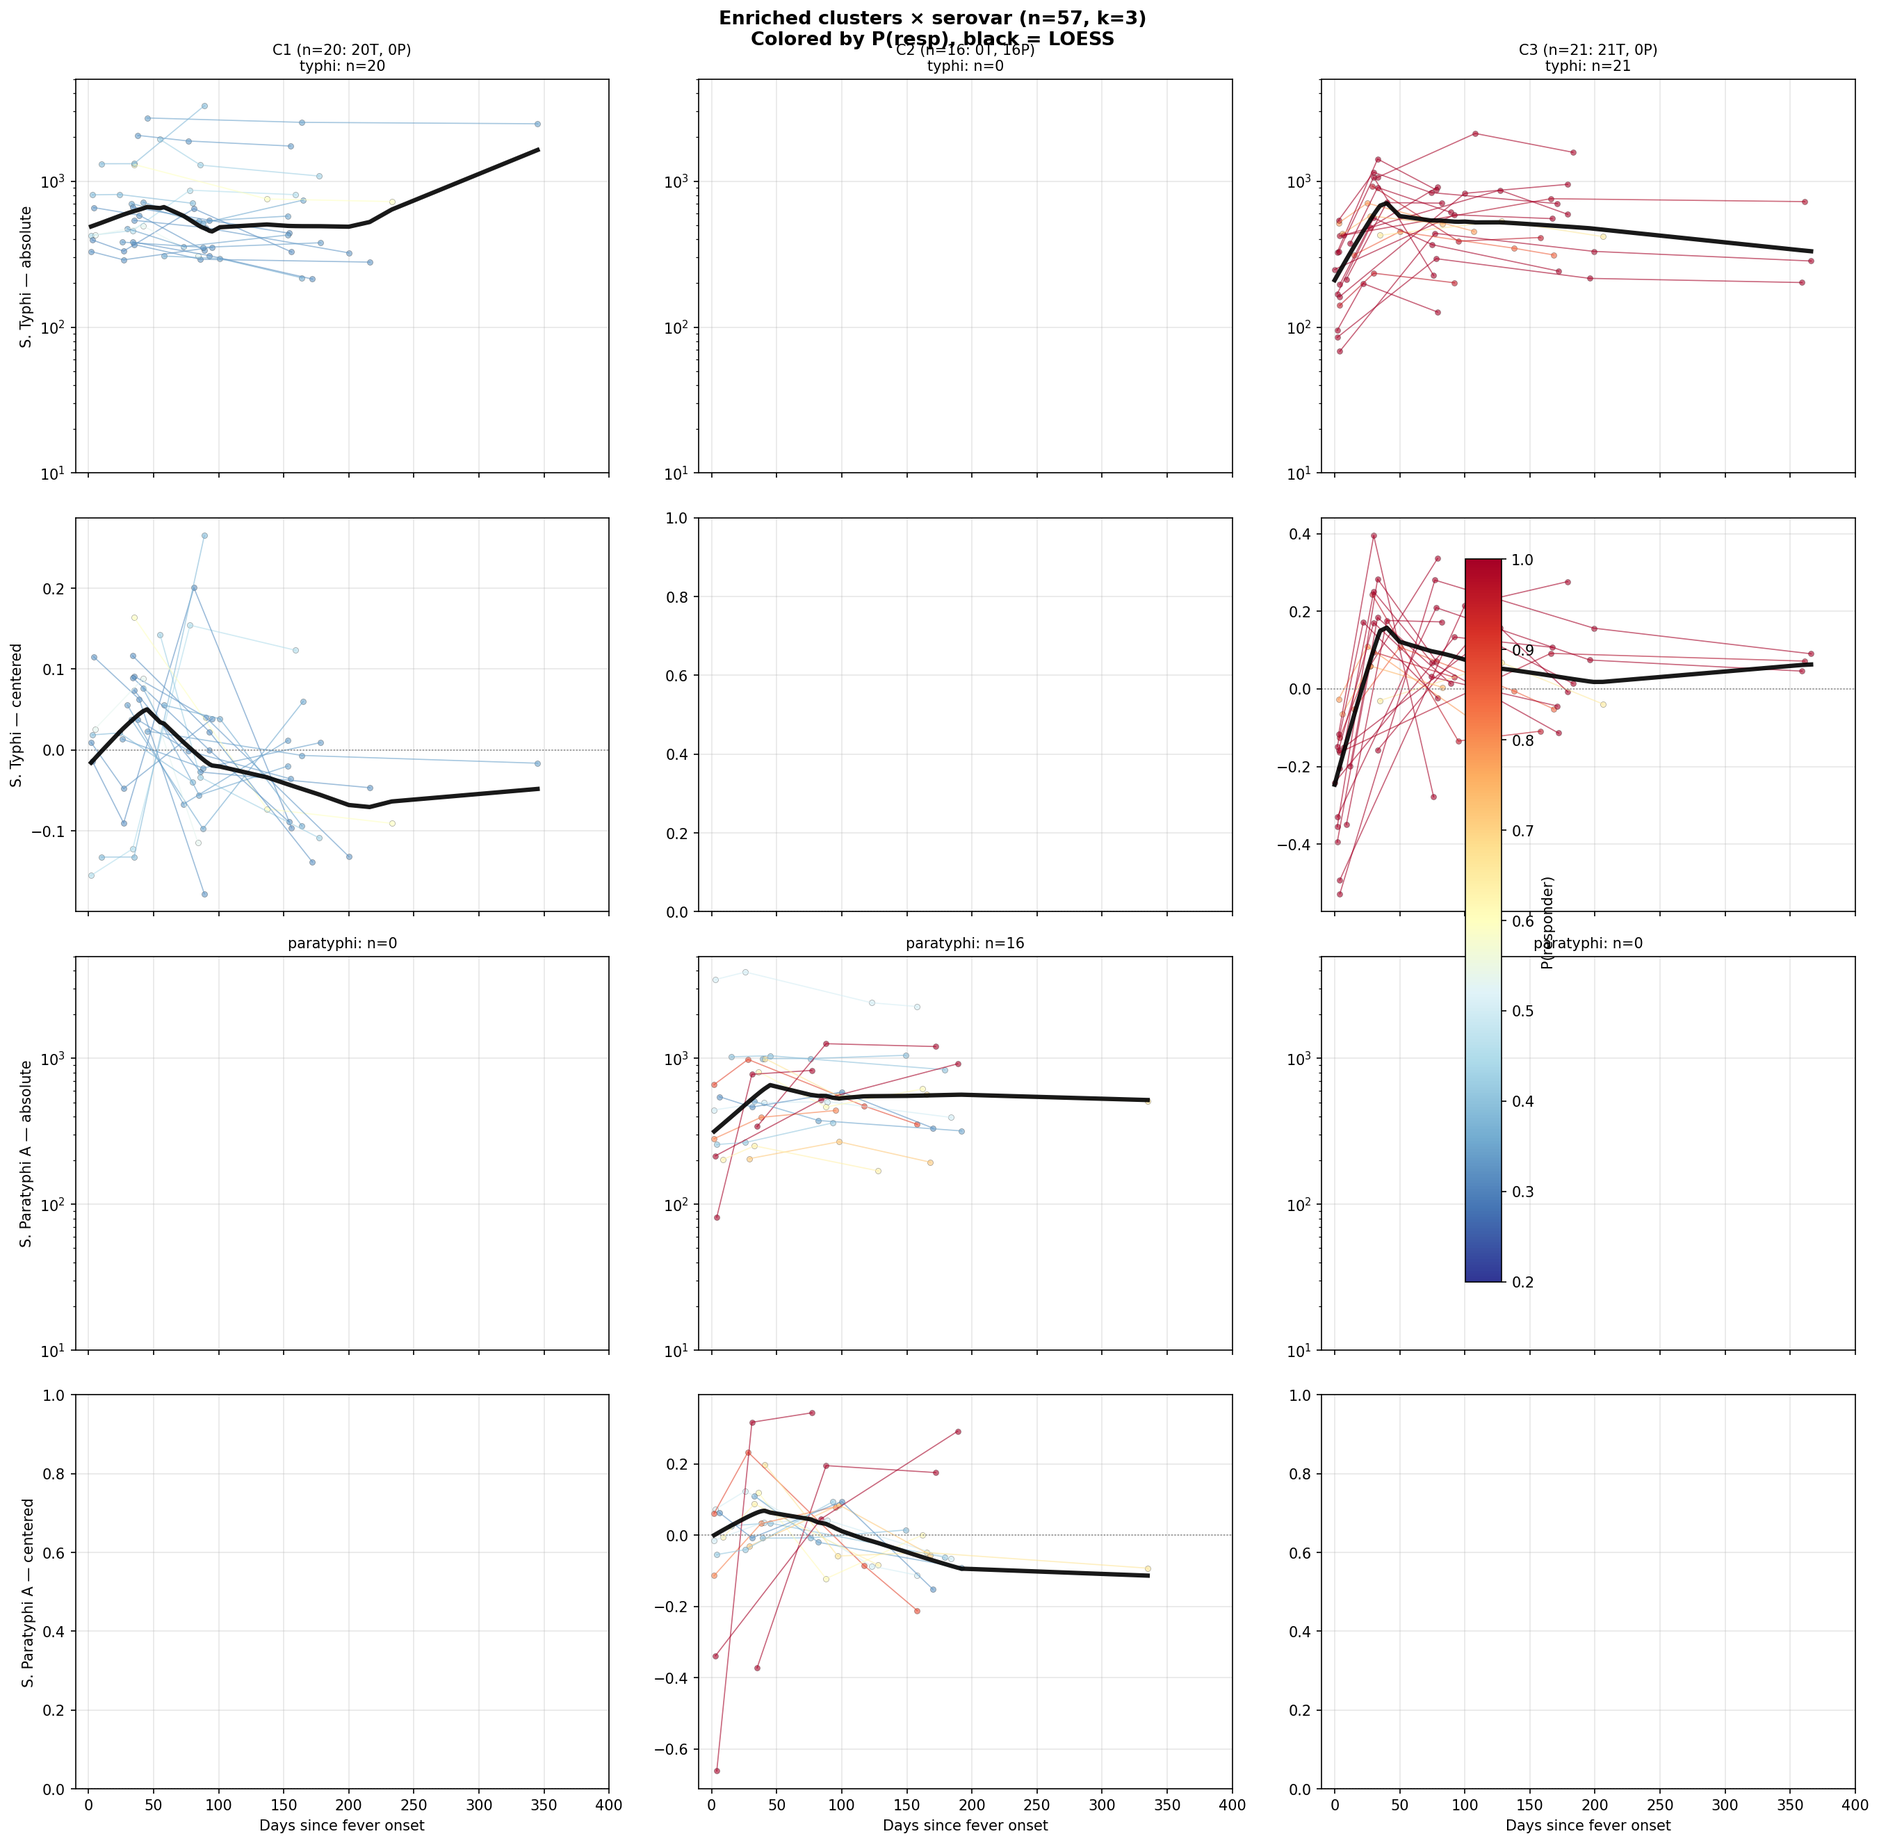
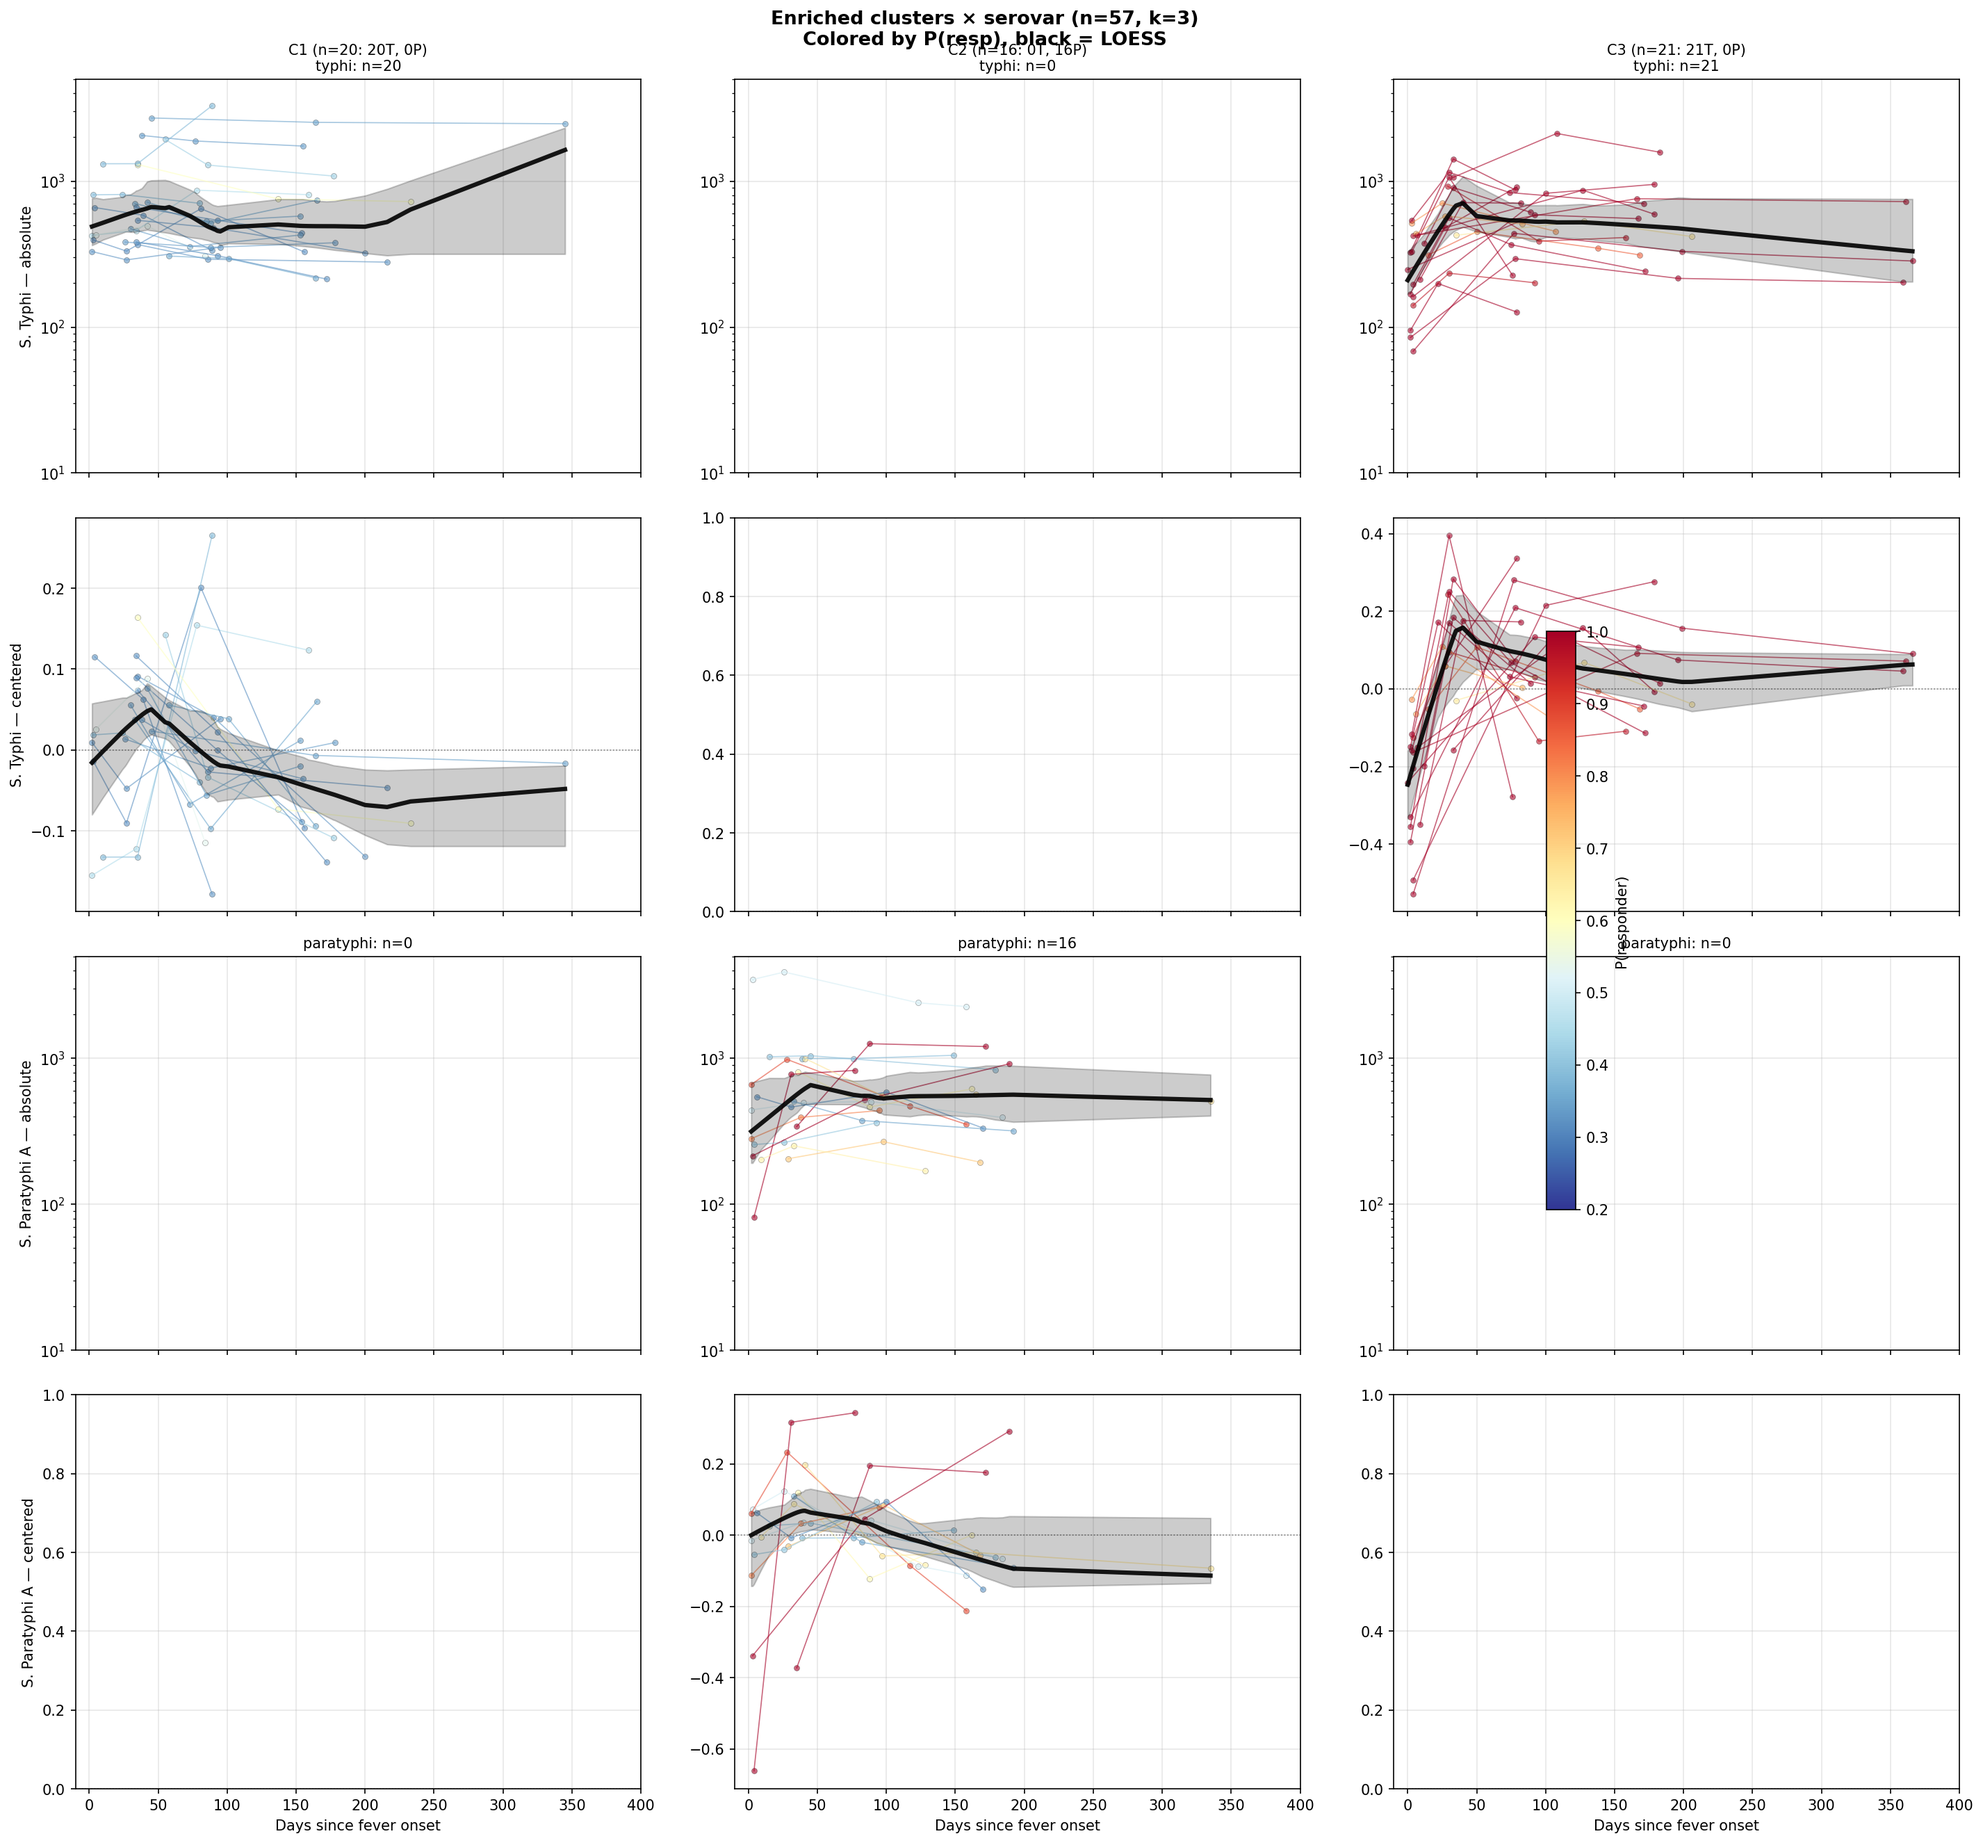
Add bootstrap 95% CI ribbons to LOESS, fix colorbar placement
Bootstrap CI by resampling subjects (200 iterations) to respect within-
subject correlation. Ribbons show uncertainty in the cluster-level
trend. Colorbar moved to far right with more padding.

diff --git a/metastudies/waning_after_infection/Aiemjoy2022_reanalysis/reanalysis/mixture_eda/12_enriched_clustering.py b/metastudies/waning_after_infection/Aiemjoy2022_reanalysis/reanalysis/mixture_eda/12_enriched_clustering.py
@@ -255,7 +255,7 @@ def main():
         ("S. Paratyphi A — centered", "paratyphi", "centered"),
     ]
 
-    fig, axes = plt.subplots(4, k_primary, figsize=(6 * k_primary, 18), sharex=True)
+    fig, axes = plt.subplots(4, k_primary, figsize=(6 * k_primary + 1, 18), sharex=True)
 
     for col, c in enumerate(range(1, k_primary + 1)):
         c_sids = [s for s in sids if cluster_map[s] == c]
@@ -284,13 +284,44 @@ def main():
                 ax.scatter(t, y_plot, color=color, s=15, alpha=0.6,
                            edgecolors="black", linewidths=0.2)
 
-            if len(all_t) >= 6:
-                smooth = sm_lowess(np.array(all_y), np.array(all_t),
-                                   frac=0.6, return_sorted=True)
-                if mode == "absolute":
-                    ax.plot(smooth[:, 0], 10**smooth[:, 1], "k-", lw=3, alpha=0.9, zorder=10)
+            all_t_arr = np.array(all_t)
+            all_y_arr = np.array(all_y)
+            if len(all_t_arr) >= 6 and len(sv_sids) >= 3:
+                smooth = sm_lowess(all_y_arr, all_t_arr, frac=0.6, return_sorted=True)
+
+                # Bootstrap CI by resampling subjects
+                t_eval = smooth[:, 0]
+                rng = np.random.RandomState(42 + col * 10 + row_idx)
+                boot_curves = []
+                for _ in range(200):
+                    boot_sids = rng.choice(sv_sids, size=len(sv_sids), replace=True)
+                    bt, by = [], []
+                    for bsid in boot_sids:
+                        bgrp = longi[longi["index_id"] == bsid].sort_values("days_since_fever_onset")
+                        bt_vals = bgrp["days_since_fever_onset"].values
+                        by_log = np.log10(np.maximum(bgrp["vi_igg_eu"].values, 1))
+                        if mode == "centered":
+                            by_log = by_log - feature_rows[bsid]["subj_mean_log10"]
+                        bt.extend(bt_vals); by.extend(by_log)
+                    if len(bt) >= 6:
+                        bs = sm_lowess(np.array(by), np.array(bt), frac=0.6, return_sorted=True)
+                        boot_interp = np.interp(t_eval, bs[:, 0], bs[:, 1])
+                        boot_curves.append(boot_interp)
+                if len(boot_curves) >= 10:
+                    boot_arr = np.array(boot_curves)
+                    lo = np.percentile(boot_arr, 2.5, axis=0)
+                    hi = np.percentile(boot_arr, 97.5, axis=0)
+                    if mode == "absolute":
+                        ax.fill_between(t_eval, 10**lo, 10**hi, color="black", alpha=0.2, zorder=9)
+                        ax.plot(smooth[:, 0], 10**smooth[:, 1], "k-", lw=3, alpha=0.9, zorder=10)
+                    else:
+                        ax.fill_between(t_eval, lo, hi, color="black", alpha=0.2, zorder=9)
+                        ax.plot(smooth[:, 0], smooth[:, 1], "k-", lw=3, alpha=0.9, zorder=10)
                 else:
-                    ax.plot(smooth[:, 0], smooth[:, 1], "k-", lw=3, alpha=0.9, zorder=10)
+                    if mode == "absolute":
+                        ax.plot(smooth[:, 0], 10**smooth[:, 1], "k-", lw=3, alpha=0.9, zorder=10)
+                    else:
+                        ax.plot(smooth[:, 0], smooth[:, 1], "k-", lw=3, alpha=0.9, zorder=10)
 
             ax.set_xlim(-10, 400); ax.grid(True, alpha=0.3)
             if mode == "absolute":
@@ -312,7 +343,7 @@ def main():
 
     sm_cb = cm.ScalarMappable(norm=presp_norm, cmap=presp_cmap)
     sm_cb.set_array([])
-    fig.colorbar(sm_cb, ax=axes, location="right", shrink=0.5, pad=0.02, label="P(responder)")
+    fig.colorbar(sm_cb, ax=axes, location="right", shrink=0.4, pad=0.06, label="P(responder)")
 
     fig.suptitle(f"Enriched clusters × serovar (n={n}, k={k_primary})\n"
                  f"Colored by P(resp), black = LOESS",
